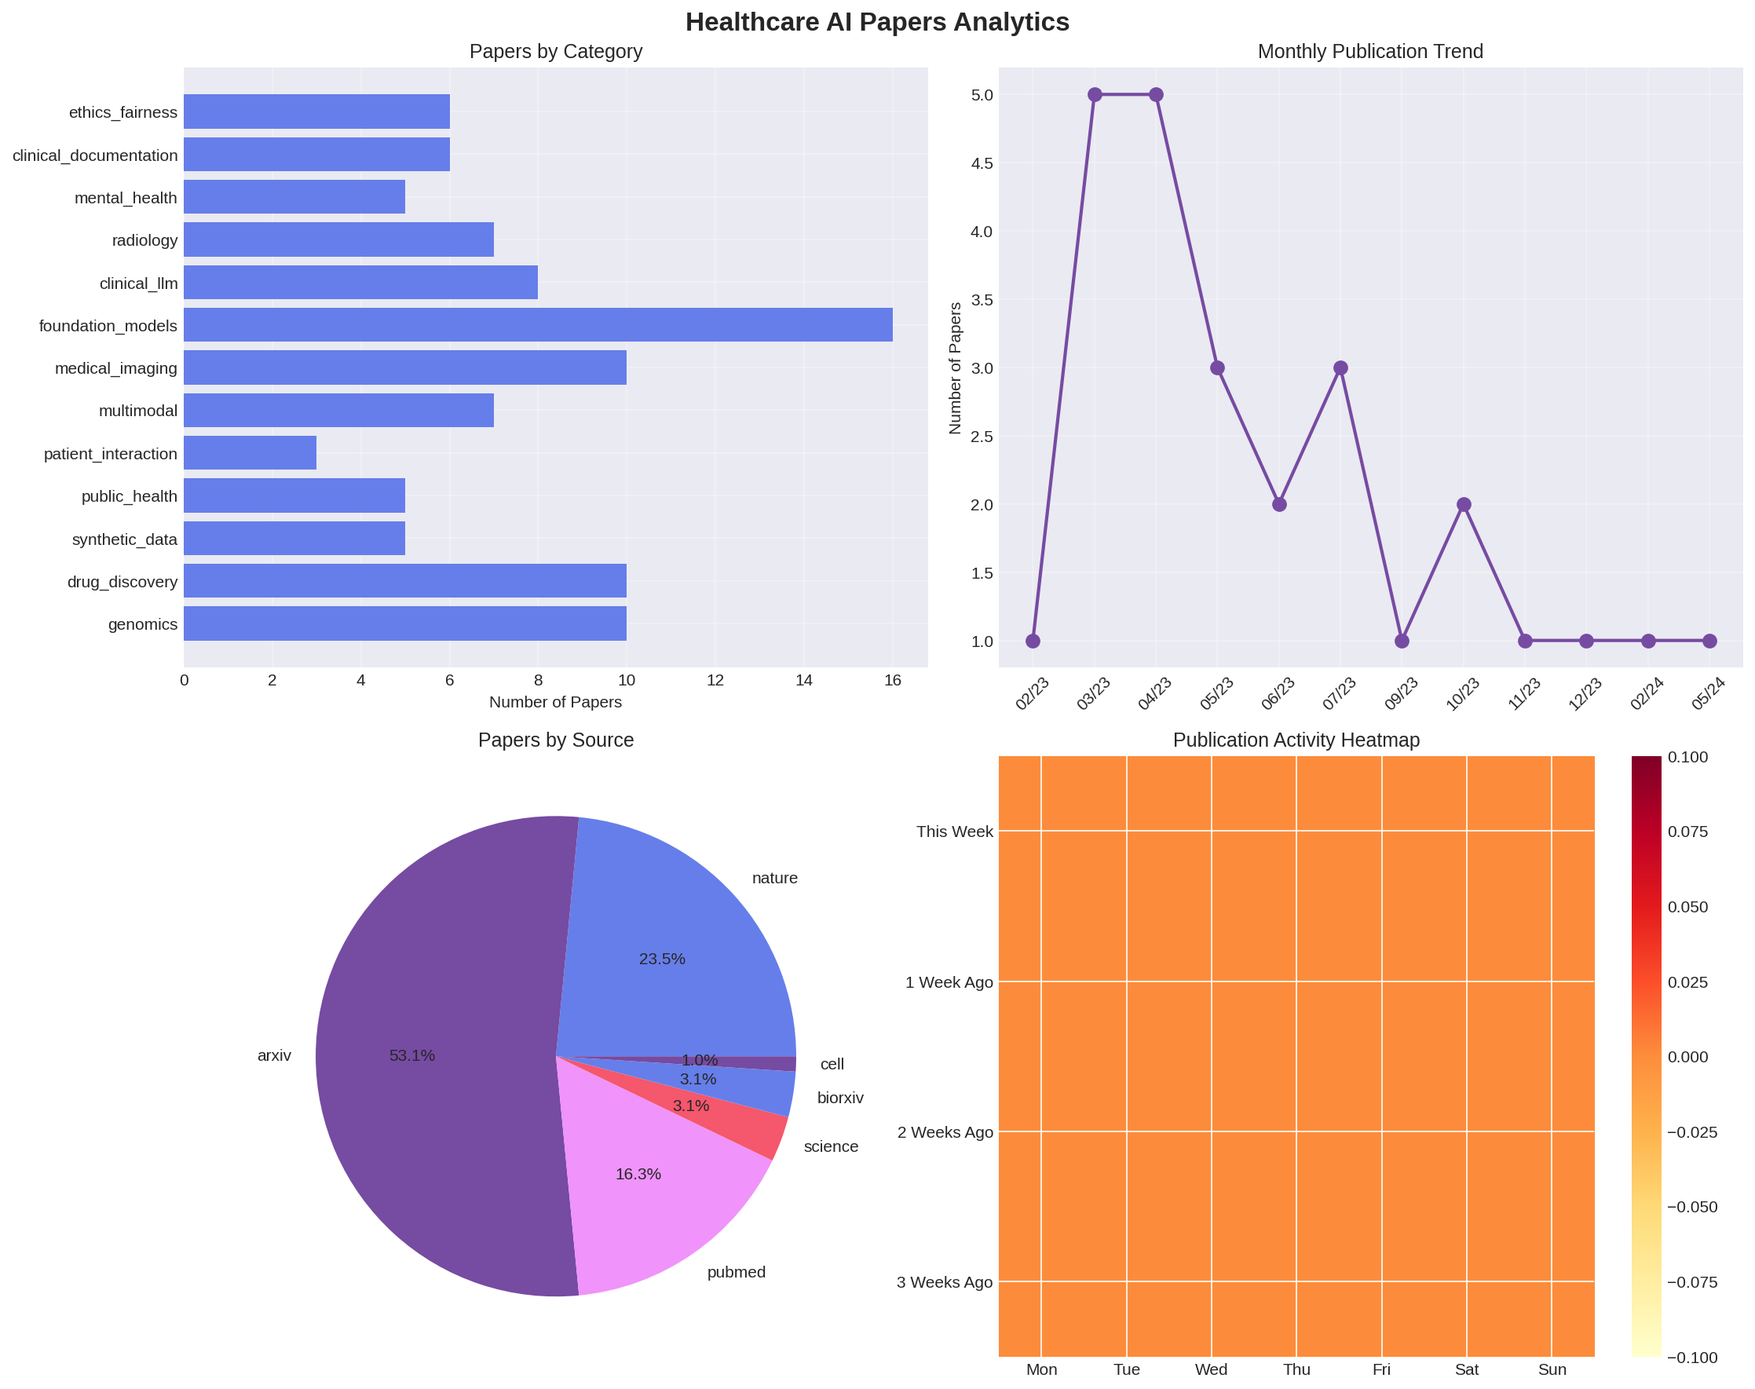
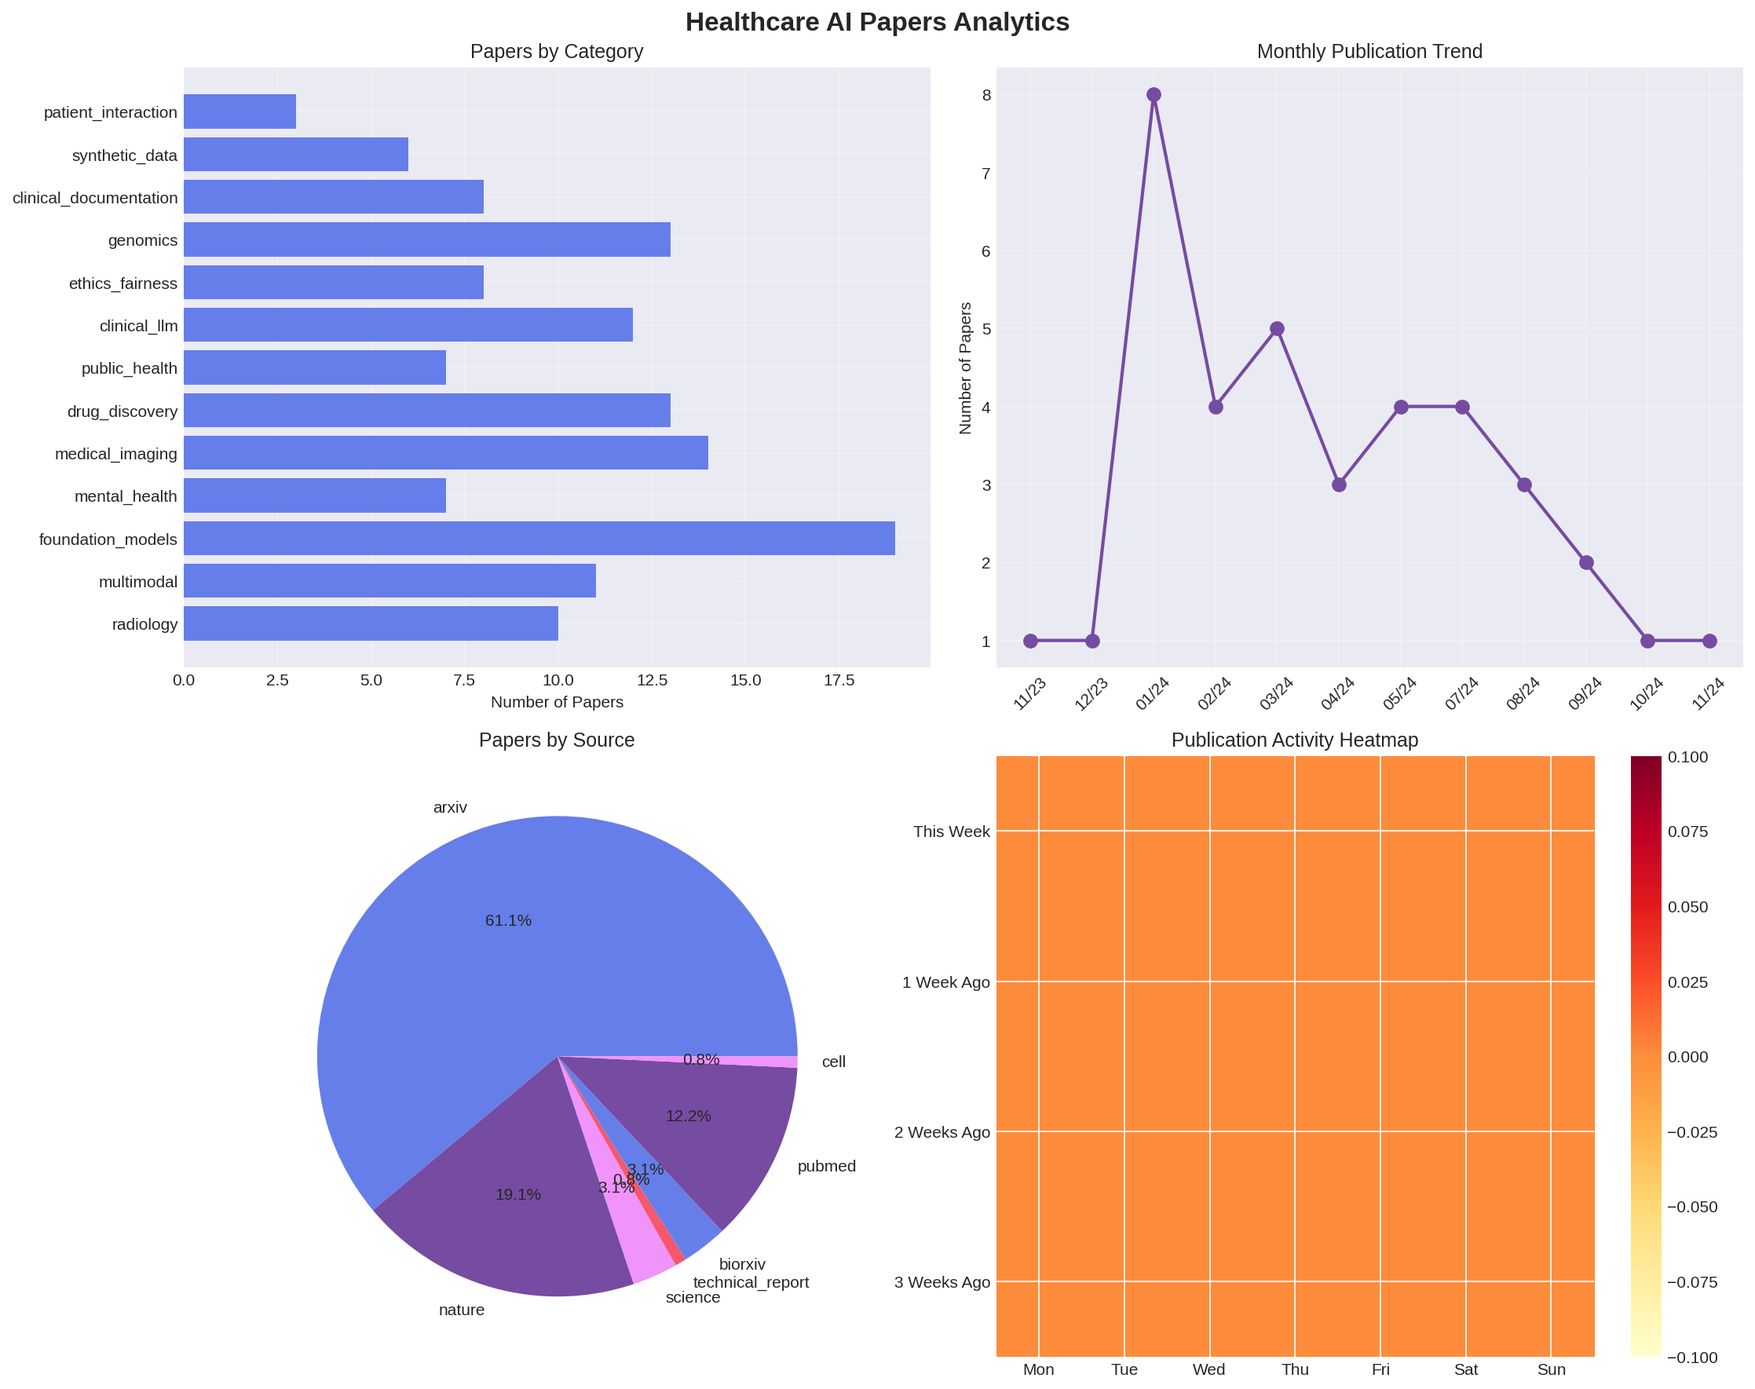
📚 Daily update: 2025-09-02

diff --git a/docs/dashboard.html b/docs/dashboard.html
@@ -30,12 +30,12 @@
     <div class="container">
         <div class="header">
             <h1>🏥 Healthcare AI Papers Dashboard</h1>
-            <p>Updated: 2025-09-02 09:05</p>
+            <p>Updated: 2025-09-02 09:14</p>
         </div>
         
         <div class="stats">
             <div class="stat-card">
-                <div class="stat-number">98</div>
+                <div class="stat-number">131</div>
                 <div class="stat-label">Total Papers</div>
             </div>
             <div class="stat-card">
@@ -59,25 +59,7 @@
                     <div style="width: 150px; text-align: right; padding-right: 10px;">foundation_models</div>
                     <div style="flex: 1; background: #e0e7ff; border-radius: 5px;">
                         <div class="bar" style="width: 100.0%;">
-                            <span class="bar-value">16</span>
-                        </div>
-                    </div>
-                </div>
-            </div><div style="margin: 10px 0;">
-                <div style="display: flex; align-items: center;">
-                    <div style="width: 150px; text-align: right; padding-right: 10px;">genomics</div>
-                    <div style="flex: 1; background: #e0e7ff; border-radius: 5px;">
-                        <div class="bar" style="width: 62.5%;">
-                            <span class="bar-value">10</span>
-                        </div>
-                    </div>
-                </div>
-            </div><div style="margin: 10px 0;">
-                <div style="display: flex; align-items: center;">
-                    <div style="width: 150px; text-align: right; padding-right: 10px;">drug_discovery</div>
-                    <div style="flex: 1; background: #e0e7ff; border-radius: 5px;">
-                        <div class="bar" style="width: 62.5%;">
-                            <span class="bar-value">10</span>
+                            <span class="bar-value">19</span>
                         </div>
                     </div>
                 </div>
@@ -85,8 +67,26 @@
                 <div style="display: flex; align-items: center;">
                     <div style="width: 150px; text-align: right; padding-right: 10px;">medical_imaging</div>
                     <div style="flex: 1; background: #e0e7ff; border-radius: 5px;">
-                        <div class="bar" style="width: 62.5%;">
-                            <span class="bar-value">10</span>
+                        <div class="bar" style="width: 73.68421052631578%;">
+                            <span class="bar-value">14</span>
+                        </div>
+                    </div>
+                </div>
+            </div><div style="margin: 10px 0;">
+                <div style="display: flex; align-items: center;">
+                    <div style="width: 150px; text-align: right; padding-right: 10px;">drug_discovery</div>
+                    <div style="flex: 1; background: #e0e7ff; border-radius: 5px;">
+                        <div class="bar" style="width: 68.42105263157895%;">
+                            <span class="bar-value">13</span>
+                        </div>
+                    </div>
+                </div>
+            </div><div style="margin: 10px 0;">
+                <div style="display: flex; align-items: center;">
+                    <div style="width: 150px; text-align: right; padding-right: 10px;">genomics</div>
+                    <div style="flex: 1; background: #e0e7ff; border-radius: 5px;">
+                        <div class="bar" style="width: 68.42105263157895%;">
+                            <span class="bar-value">13</span>
                         </div>
                     </div>
                 </div>
@@ -94,8 +94,8 @@
                 <div style="display: flex; align-items: center;">
                     <div style="width: 150px; text-align: right; padding-right: 10px;">clinical_llm</div>
                     <div style="flex: 1; background: #e0e7ff; border-radius: 5px;">
-                        <div class="bar" style="width: 50.0%;">
-                            <span class="bar-value">8</span>
+                        <div class="bar" style="width: 63.1578947368421%;">
+                            <span class="bar-value">12</span>
                         </div>
                     </div>
                 </div>
@@ -103,8 +103,8 @@
                 <div style="display: flex; align-items: center;">
                     <div style="width: 150px; text-align: right; padding-right: 10px;">multimodal</div>
                     <div style="flex: 1; background: #e0e7ff; border-radius: 5px;">
-                        <div class="bar" style="width: 43.75%;">
-                            <span class="bar-value">7</span>
+                        <div class="bar" style="width: 57.89473684210527%;">
+                            <span class="bar-value">11</span>
                         </div>
                     </div>
                 </div>
@@ -112,17 +112,8 @@
                 <div style="display: flex; align-items: center;">
                     <div style="width: 150px; text-align: right; padding-right: 10px;">radiology</div>
                     <div style="flex: 1; background: #e0e7ff; border-radius: 5px;">
-                        <div class="bar" style="width: 43.75%;">
-                            <span class="bar-value">7</span>
-                        </div>
-                    </div>
-                </div>
-            </div><div style="margin: 10px 0;">
-                <div style="display: flex; align-items: center;">
-                    <div style="width: 150px; text-align: right; padding-right: 10px;">clinical_documentation</div>
-                    <div style="flex: 1; background: #e0e7ff; border-radius: 5px;">
-                        <div class="bar" style="width: 37.5%;">
-                            <span class="bar-value">6</span>
+                        <div class="bar" style="width: 52.63157894736842%;">
+                            <span class="bar-value">10</span>
                         </div>
                     </div>
                 </div>
@@ -130,26 +121,17 @@
                 <div style="display: flex; align-items: center;">
                     <div style="width: 150px; text-align: right; padding-right: 10px;">ethics_fairness</div>
                     <div style="flex: 1; background: #e0e7ff; border-radius: 5px;">
-                        <div class="bar" style="width: 37.5%;">
-                            <span class="bar-value">6</span>
+                        <div class="bar" style="width: 42.10526315789473%;">
+                            <span class="bar-value">8</span>
                         </div>
                     </div>
                 </div>
             </div><div style="margin: 10px 0;">
                 <div style="display: flex; align-items: center;">
-                    <div style="width: 150px; text-align: right; padding-right: 10px;">synthetic_data</div>
+                    <div style="width: 150px; text-align: right; padding-right: 10px;">clinical_documentation</div>
                     <div style="flex: 1; background: #e0e7ff; border-radius: 5px;">
-                        <div class="bar" style="width: 31.25%;">
-                            <span class="bar-value">5</span>
-                        </div>
-                    </div>
-                </div>
-            </div><div style="margin: 10px 0;">
-                <div style="display: flex; align-items: center;">
-                    <div style="width: 150px; text-align: right; padding-right: 10px;">public_health</div>
-                    <div style="flex: 1; background: #e0e7ff; border-radius: 5px;">
-                        <div class="bar" style="width: 31.25%;">
-                            <span class="bar-value">5</span>
+                        <div class="bar" style="width: 42.10526315789473%;">
+                            <span class="bar-value">8</span>
                         </div>
                     </div>
                 </div>
@@ -157,8 +139,26 @@
                 <div style="display: flex; align-items: center;">
                     <div style="width: 150px; text-align: right; padding-right: 10px;">mental_health</div>
                     <div style="flex: 1; background: #e0e7ff; border-radius: 5px;">
-                        <div class="bar" style="width: 31.25%;">
-                            <span class="bar-value">5</span>
+                        <div class="bar" style="width: 36.84210526315789%;">
+                            <span class="bar-value">7</span>
+                        </div>
+                    </div>
+                </div>
+            </div><div style="margin: 10px 0;">
+                <div style="display: flex; align-items: center;">
+                    <div style="width: 150px; text-align: right; padding-right: 10px;">public_health</div>
+                    <div style="flex: 1; background: #e0e7ff; border-radius: 5px;">
+                        <div class="bar" style="width: 36.84210526315789%;">
+                            <span class="bar-value">7</span>
+                        </div>
+                    </div>
+                </div>
+            </div><div style="margin: 10px 0;">
+                <div style="display: flex; align-items: center;">
+                    <div style="width: 150px; text-align: right; padding-right: 10px;">synthetic_data</div>
+                    <div style="flex: 1; background: #e0e7ff; border-radius: 5px;">
+                        <div class="bar" style="width: 31.57894736842105%;">
+                            <span class="bar-value">6</span>
                         </div>
                     </div>
                 </div>
@@ -166,7 +166,7 @@
                 <div style="display: flex; align-items: center;">
                     <div style="width: 150px; text-align: right; padding-right: 10px;">patient_interaction</div>
                     <div style="flex: 1; background: #e0e7ff; border-radius: 5px;">
-                        <div class="bar" style="width: 18.75%;">
+                        <div class="bar" style="width: 15.789473684210526%;">
                             <span class="bar-value">3</span>
                         </div>
                     </div>
@@ -177,47 +177,47 @@
         <div class="chart">
             <h2>📈 Monthly Trend</h2>
             <div style="display: flex; justify-content: space-around; flex-wrap: wrap;"><div style="text-align: center; margin: 10px;">
-                <div style="background: #667eea; color: white; width: 60px; height: 10px; 
+                <div style="background: #667eea; color: white; width: 60px; height: 40px; 
                             margin: 0 auto; border-radius: 5px; display: flex; align-items: flex-end; 
                             justify-content: center; padding: 10px;">
-                    <span>1</span>
+                    <span>4</span>
                 </div>
-                <div style="margin-top: 5px; font-size: 0.9em;">2023-09</div>
+                <div style="margin-top: 5px; font-size: 0.9em;">2024-05</div>
+            </div><div style="text-align: center; margin: 10px;">
+                <div style="background: #667eea; color: white; width: 60px; height: 40px; 
+                            margin: 0 auto; border-radius: 5px; display: flex; align-items: flex-end; 
+                            justify-content: center; padding: 10px;">
+                    <span>4</span>
+                </div>
+                <div style="margin-top: 5px; font-size: 0.9em;">2024-07</div>
+            </div><div style="text-align: center; margin: 10px;">
+                <div style="background: #667eea; color: white; width: 60px; height: 30px; 
+                            margin: 0 auto; border-radius: 5px; display: flex; align-items: flex-end; 
+                            justify-content: center; padding: 10px;">
+                    <span>3</span>
+                </div>
+                <div style="margin-top: 5px; font-size: 0.9em;">2024-08</div>
             </div><div style="text-align: center; margin: 10px;">
                 <div style="background: #667eea; color: white; width: 60px; height: 20px; 
                             margin: 0 auto; border-radius: 5px; display: flex; align-items: flex-end; 
                             justify-content: center; padding: 10px;">
                     <span>2</span>
                 </div>
-                <div style="margin-top: 5px; font-size: 0.9em;">2023-10</div>
+                <div style="margin-top: 5px; font-size: 0.9em;">2024-09</div>
             </div><div style="text-align: center; margin: 10px;">
                 <div style="background: #667eea; color: white; width: 60px; height: 10px; 
                             margin: 0 auto; border-radius: 5px; display: flex; align-items: flex-end; 
                             justify-content: center; padding: 10px;">
                     <span>1</span>
                 </div>
-                <div style="margin-top: 5px; font-size: 0.9em;">2023-11</div>
+                <div style="margin-top: 5px; font-size: 0.9em;">2024-10</div>
             </div><div style="text-align: center; margin: 10px;">
                 <div style="background: #667eea; color: white; width: 60px; height: 10px; 
                             margin: 0 auto; border-radius: 5px; display: flex; align-items: flex-end; 
                             justify-content: center; padding: 10px;">
                     <span>1</span>
                 </div>
-                <div style="margin-top: 5px; font-size: 0.9em;">2023-12</div>
-            </div><div style="text-align: center; margin: 10px;">
-                <div style="background: #667eea; color: white; width: 60px; height: 10px; 
-                            margin: 0 auto; border-radius: 5px; display: flex; align-items: flex-end; 
-                            justify-content: center; padding: 10px;">
-                    <span>1</span>
-                </div>
-                <div style="margin-top: 5px; font-size: 0.9em;">2024-02</div>
-            </div><div style="text-align: center; margin: 10px;">
-                <div style="background: #667eea; color: white; width: 60px; height: 10px; 
-                            margin: 0 auto; border-radius: 5px; display: flex; align-items: flex-end; 
-                            justify-content: center; padding: 10px;">
-                    <span>1</span>
-                </div>
-                <div style="margin-top: 5px; font-size: 0.9em;">2024-05</div>
+                <div style="margin-top: 5px; font-size: 0.9em;">2024-11</div>
             </div></div>
         </div>
         
@@ -238,54 +238,54 @@
                     <th>Source</th>
                 </tr>
                 <tr>
-                    <td>2024-02-08</td>
-                    <td>Toward Building a Foundation Model for Single-Cell Multi-omics Using Generative ...</td>
-                    <td>genomics</td>
-                    <td>nature</td>
-                </tr><tr>
-                    <td>2024-05-08</td>
-                    <td>Accurate structure prediction of biomolecular interactions with AlphaFold 3...</td>
-                    <td>drug_discovery</td>
-                    <td>nature</td>
-                </tr><tr>
-                    <td>2023-04-06</td>
-                    <td>Synthetic Data Generation for Healthcare...</td>
-                    <td>synthetic_data</td>
+                    <td>2024-11-30</td>
+                    <td>RaDialog: A Large Vision-Language Model for Radiology Report Generation and Conv...</td>
+                    <td>radiology</td>
                     <td>arxiv</td>
                 </tr><tr>
-                    <td>2023-04-04</td>
-                    <td>Diffusion Models for Medical Image Synthesis...</td>
-                    <td>synthetic_data</td>
-                    <td>arxiv</td>
-                </tr><tr>
-                    <td>2023-01-21</td>
-                    <td>Language models can predict public health trends...</td>
-                    <td>public_health</td>
-                    <td>arxiv</td>
-                </tr><tr>
-                    <td>2023-10-11</td>
-                    <td>Deep learning for viral mutation prediction...</td>
-                    <td>public_health</td>
-                    <td>nature</td>
-                </tr><tr>
-                    <td>2023-06-12</td>
-                    <td>Patients' perceptions of receiving a diagnosis of a hematological malignancy fro...</td>
-                    <td>patient_interaction</td>
-                    <td>nature</td>
-                </tr><tr>
-                    <td>2023-07-15</td>
-                    <td>Conversational AI for mental health: A systematic review...</td>
-                    <td>patient_interaction</td>
-                    <td>pubmed</td>
-                </tr><tr>
-                    <td>2023-06-01</td>
-                    <td>Training a Large Language-and-Vision Assistant for Biomedicine in One Day...</td>
+                    <td>2024-10-05</td>
+                    <td>LLaVA-Med: Large Language and Vision Assistant for Medicine...</td>
                     <td>multimodal</td>
                     <td>arxiv</td>
                 </tr><tr>
-                    <td>2023-03-02</td>
-                    <td>A multimodal biomedical foundation model pretrained from fifteen million scienti...</td>
+                    <td>2024-09-28</td>
+                    <td>MedEdit: Model Editing for Medical Question Answering with External Knowledge Ba...</td>
+                    <td>foundation_models</td>
+                    <td>arxiv</td>
+                </tr><tr>
+                    <td>2024-09-24</td>
+                    <td>MentaLLaMA: Interpretable Mental Health Analysis on Social Media with Large Lang...</td>
+                    <td>mental_health</td>
+                    <td>arxiv</td>
+                </tr><tr>
+                    <td>2024-08-22</td>
+                    <td>Qwen-VL: A Versatile Vision-Language Model for Understanding, Localization, Text...</td>
                     <td>multimodal</td>
+                    <td>arxiv</td>
+                </tr><tr>
+                    <td>2024-08-04</td>
+                    <td>RadFM: A 3D Radiology Foundation Model...</td>
+                    <td>radiology</td>
+                    <td>arxiv</td>
+                </tr><tr>
+                    <td>2024-08-01</td>
+                    <td>MedSAM-2: Segment Medical Images As Video Via Segment Anything Model 2...</td>
+                    <td>medical_imaging</td>
+                    <td>arxiv</td>
+                </tr><tr>
+                    <td>2024-07-29</td>
+                    <td>Segment Anything Model 2...</td>
+                    <td>medical_imaging</td>
+                    <td>arxiv</td>
+                </tr><tr>
+                    <td>2024-07-28</td>
+                    <td>Med-Flamingo: a Multimodal Medical Few-shot Learner...</td>
+                    <td>multimodal</td>
+                    <td>arxiv</td>
+                </tr><tr>
+                    <td>2024-07-22</td>
+                    <td>PsyLLM: Scaling up Global Mental Health Psychological Services with AI-based Lar...</td>
+                    <td>mental_health</td>
                     <td>arxiv</td>
                 </tr>
             </table>

diff --git a/README.md b/README.md
@@ -8,7 +8,7 @@
 
 ## 📊 This Week's Highlights
 
-*Check back soon for new papers!*
+*No new papers this week. Check back soon!*
 
 ## 🎯 Research Categories
 
